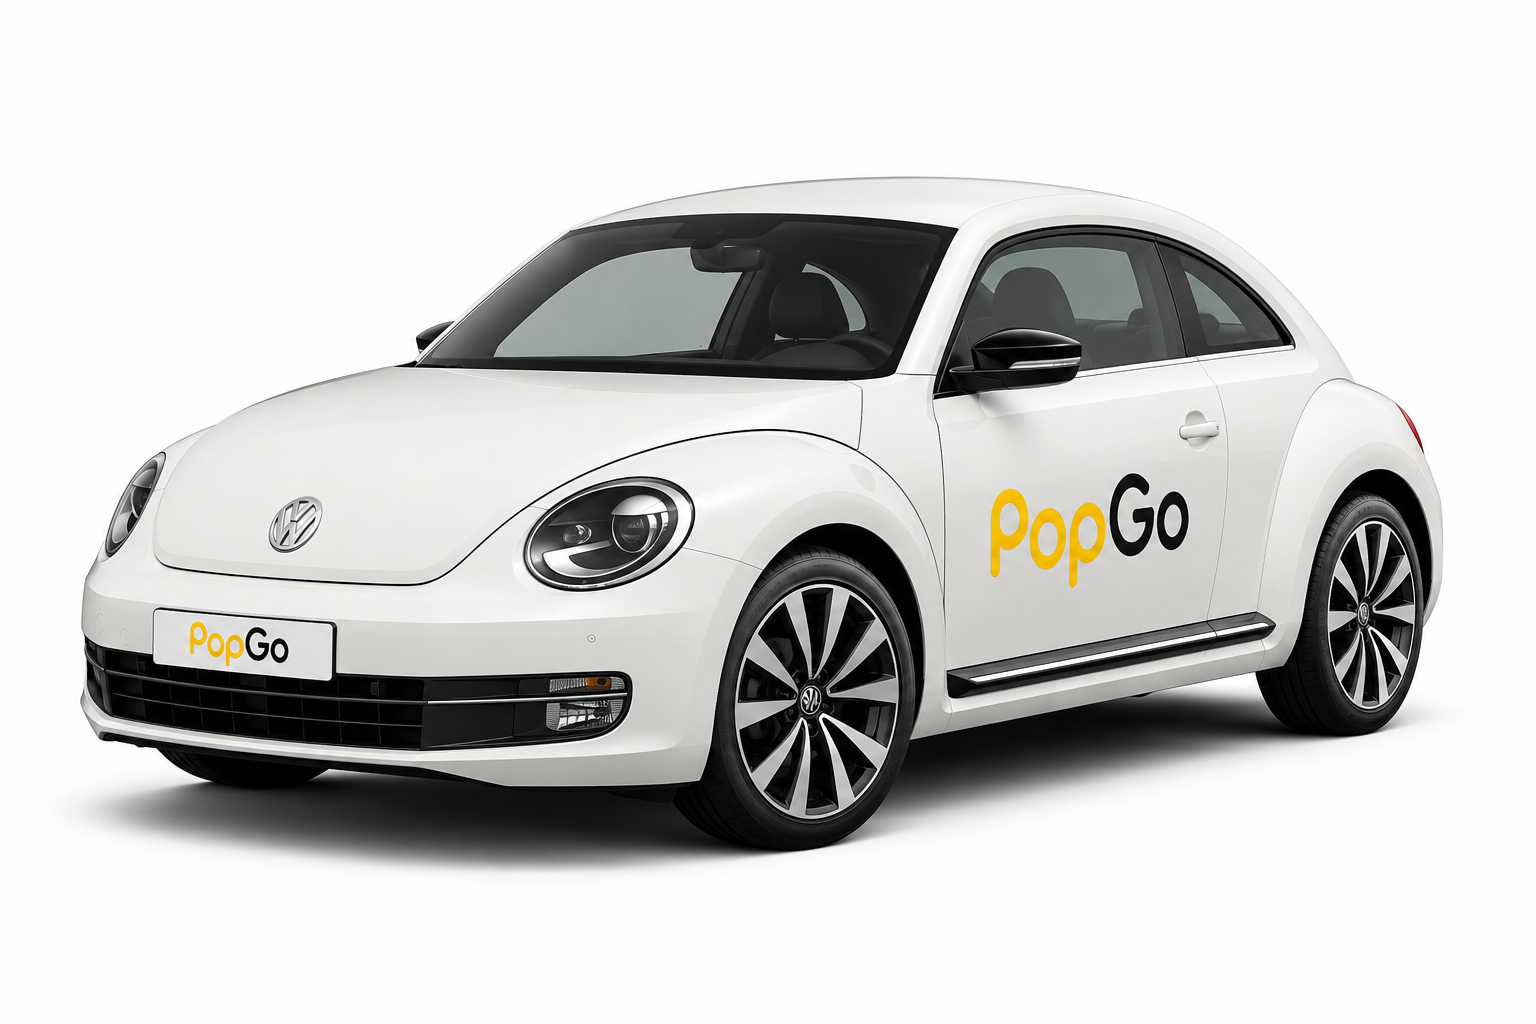
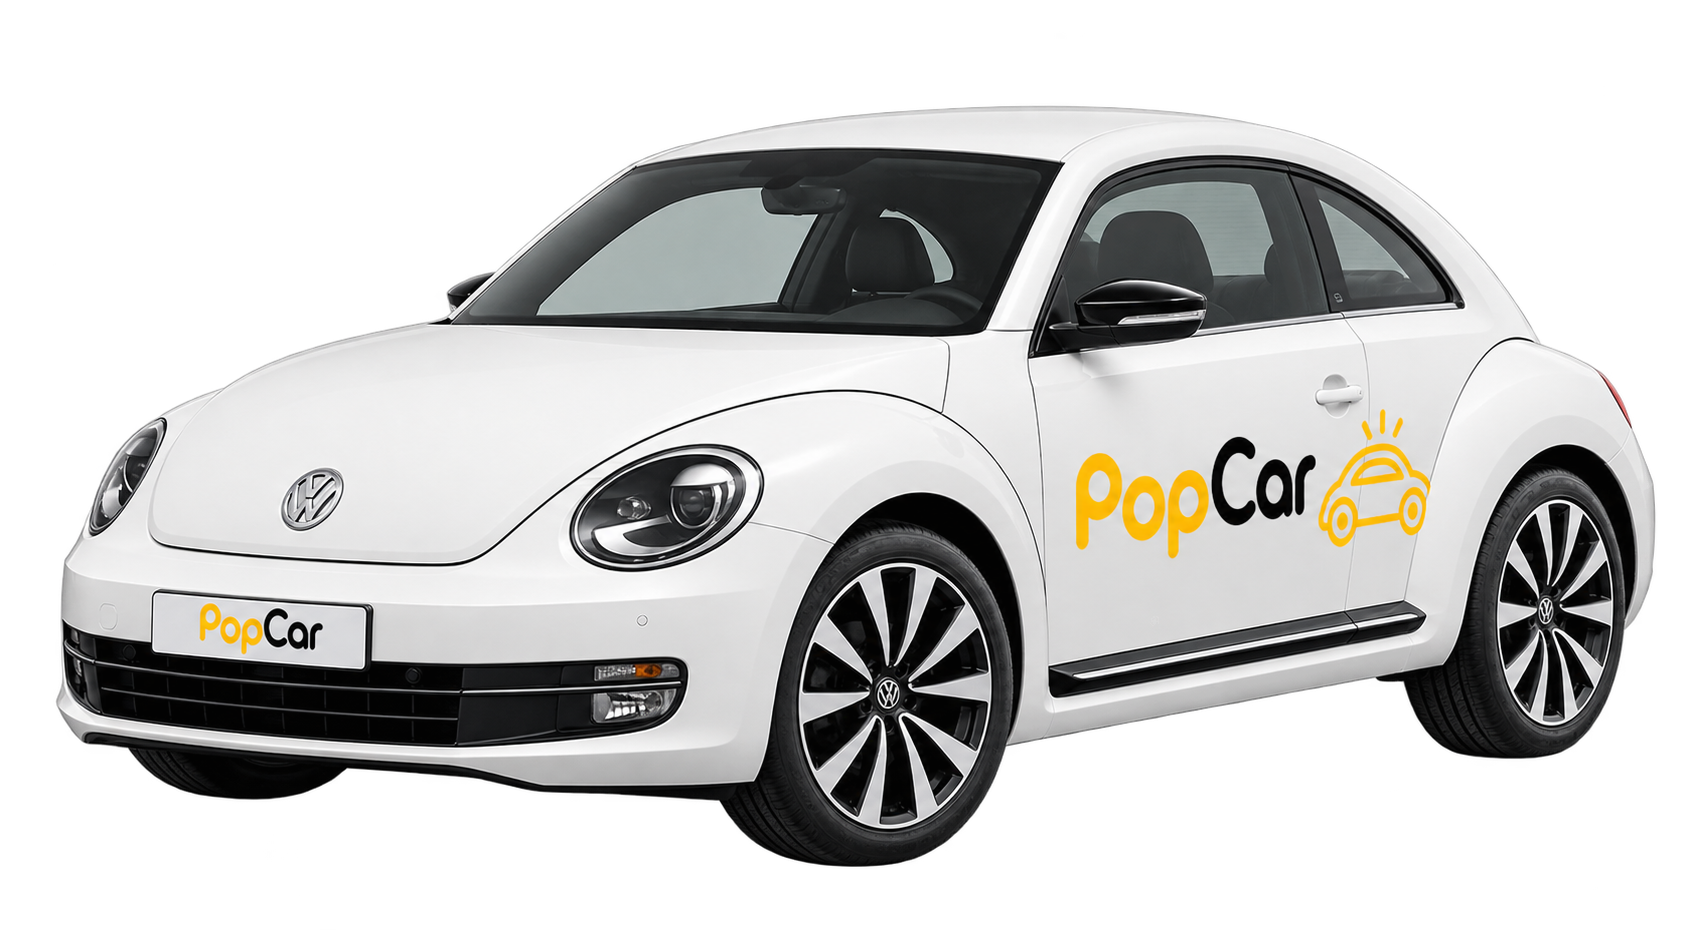
El Beetle del home, ya rotulado PopCar
La foto anterior llevaba PopGo en la puerta y en la matricula. La nueva es la
misma toma —mismo coche, mismo angulo, mismas llantas— con la rotulacion
correcta, asi que no hace falta repintar nada.

Trae dos diferencias que hay que compensar:

Viene recortada con transparencia de verdad, asi que se quita el mix-blend-mode
multiply. Ese fundido estaba para la anterior, que traia fondo blanco de
estudio; con una imagen transparente sobra y ademas ensucia los bordes.

Y trae menos margen blanco alrededor, asi que a igual ancho el coche saldria
mas grande. Se compensa bajando el ancho maximo de 720 a 640 para que quede
del mismo tamano en pantalla que la que estaba.

diff --git a/src/pages/LandingPage.css b/src/pages/LandingPage.css
@@ -118,10 +118,10 @@
 /* Reserva sitio a la derecha para la tarjeta de valoracion: antes se ponia
    encima del coche y le tapaba media carroceria. */
 .pc-hero-visual { position: relative; display: flex; align-items: center; justify-content: center; padding-right: 120px; }
-/* La foto viene con fondo blanco de estudio; multiply lo funde con la página y
-   el coche queda recortado sin tener que recortarlo. Por eso detrás no puede
-   haber nada de color: teñiría la chapa. */
-.pc-hero-visual img { width: 100%; max-width: 720px; height: auto; mix-blend-mode: multiply; }
+/* La foto viene recortada, con transparencia de verdad: no hace falta fundir
+   ningun fondo. El ancho maximo esta ajustado para que el coche salga del
+   mismo tamano que con la foto anterior, que traia mas margen blanco. */
+.pc-hero-visual img { width: 100%; max-width: 640px; height: auto; }
 
 .pc-tarjeta-ia {
   position: absolute; right: -80px; top: 40px; z-index: 3;
